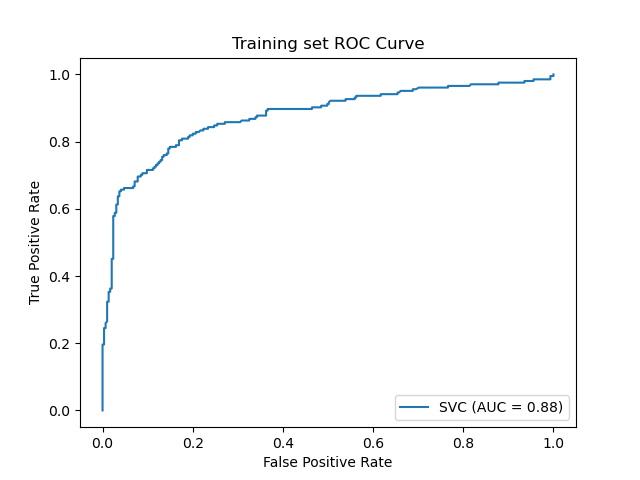
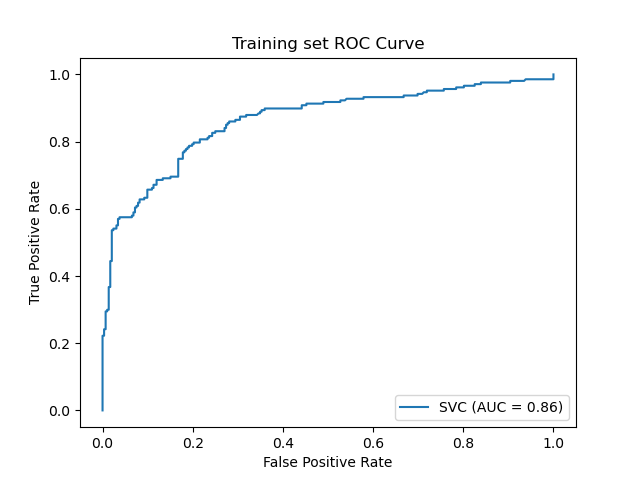
fixed a bug

Changed region(s): [[0.1562, 0.25, 0.375, 0.7188], [0.375, 0.1562, 0.8438, 0.25]]

diff --git a/titanic/train_test_validation.py b/titanic/train_test_validation.py
@@ -136,30 +136,33 @@ def train_and_test(train_df, test_df):
         1D numpy array containing predictions for test set, test_df.
 
     """
+
+    # create training and test split
+    x_train, x_val, y_train, y_val = train_test_split(train_df.drop(['Survived', 'PassengerId'], axis=1), train_df['Survived'], test_size=0.3)
+    x_test = test_df.drop(['PassengerId'], axis=1)
+
     # set up an SVM classifier
     C = .8
     logging.info('Training using an SVM model.')
     logging.info('SVM Params: C: {}'.format(C))
     clf = svm.SVC(C=C)
-    clf.fit(train_df.iloc[:, 1:], train_df['Survived'])
-    # create training and test split
-    x_train, x_val, y_train, y_val = train_test_split(train_df.iloc[:, 1:], train_df.iloc[:,0], test_size=0.3)
-    x_test, y_test = test_df.iloc[:,1:], test_df.iloc[:,0]
+    clf.fit(x_train, y_train)
 
     pred_train = clf.predict(x_train)
     pred_val = clf.predict(x_val)
-    size_total = len(x_train) + len(x_val) + len(test_df)
+    pred_test = clf.predict(x_test)
 
-    size_total = len(x_train) + len(x_val) + len(test_df)
+    size_total = len(x_train) + len(x_val) + len(x_test)
+
     prev_train = sum(y_train)/len(y_train)
     prev_val = sum(y_val)/len(y_val)
-
-    print('prevalence of training: %{:.2f} validation: %{:.2f}'.format(prev_train, prev_val))
-    logging.info('prevalence of training dataset: %{:.2f} validation dataset: %{:.2f}'.format(prev_train, prev_val))
 
     logging.info('Size of training set: {} (%{:.2f})'.format(len(x_train), len(x_train)/size_total*100))
     logging.info('Size of validation set: {} (%{:.2f})'.format(len(x_val), len(x_val)/size_total*100))
     logging.info('Size of test set: {} (%{:.2f})'.format(len(test_df), len(test_df)/size_total*100))
+
+    print('prevalence of training: %{:.2f} validation: %{:.2f}'.format(prev_train, prev_val))
+    logging.info('prevalence of training dataset: %{:.2f} validation dataset: %{:.2f}'.format(prev_train, prev_val))
 
     logging.info('training accuracy: %{:.2f} precision: %{:.2f} recall: %{:.2f}'.format(accuracy_score(y_train, pred_train), precision_score(y_train, pred_train), recall_score(y_train, pred_train)))
     logging.info('validation accuracy: %{:.2f} precision: %{:.2f} recall: %{:.2f}'.format(accuracy_score(y_val, pred_val), precision_score(y_val, pred_val), recall_score(y_val, pred_val)))
@@ -191,7 +194,8 @@ def train_and_test(train_df, test_df):
     plt.savefig('plots/validation_ROC.png')
     plt.show()
     plt.clf()
-    return clf
+
+    return pred_test
 
 
 if __name__ == '__main__':
@@ -202,16 +206,13 @@ if __name__ == '__main__':
 
     train_df, test_df = read_data()
     train_df, test_df = feature_engineering(train_df, test_df)
-    model = train_and_test(train_df, test_df)
-    predictions = model.predict(test_df.drop(['PassengerId'], axis=1))
-    logging.info('Predictions testing: \n{}'.format(predictions))
-    submission = {'PassengerId': test_df['PassengerId'], 'Survived': predictions}
+    predictions_test = train_and_test(train_df, test_df)
+    logging.info('Predictions testing: \n{}'.format(predictions_test))
+    submission = {'PassengerId': test_df['PassengerId'], 'Survived': predictions_test}
     df = pd.DataFrame(submission)
     df.set_index('PassengerId', inplace=True)
     df.to_csv('submission_titanic.csv')
 
-
-    predictions = model.predict(test_df)
     print('End')
     end = time.time()
     logging.info('Took {:.2f} seconds'.format(end-start))
